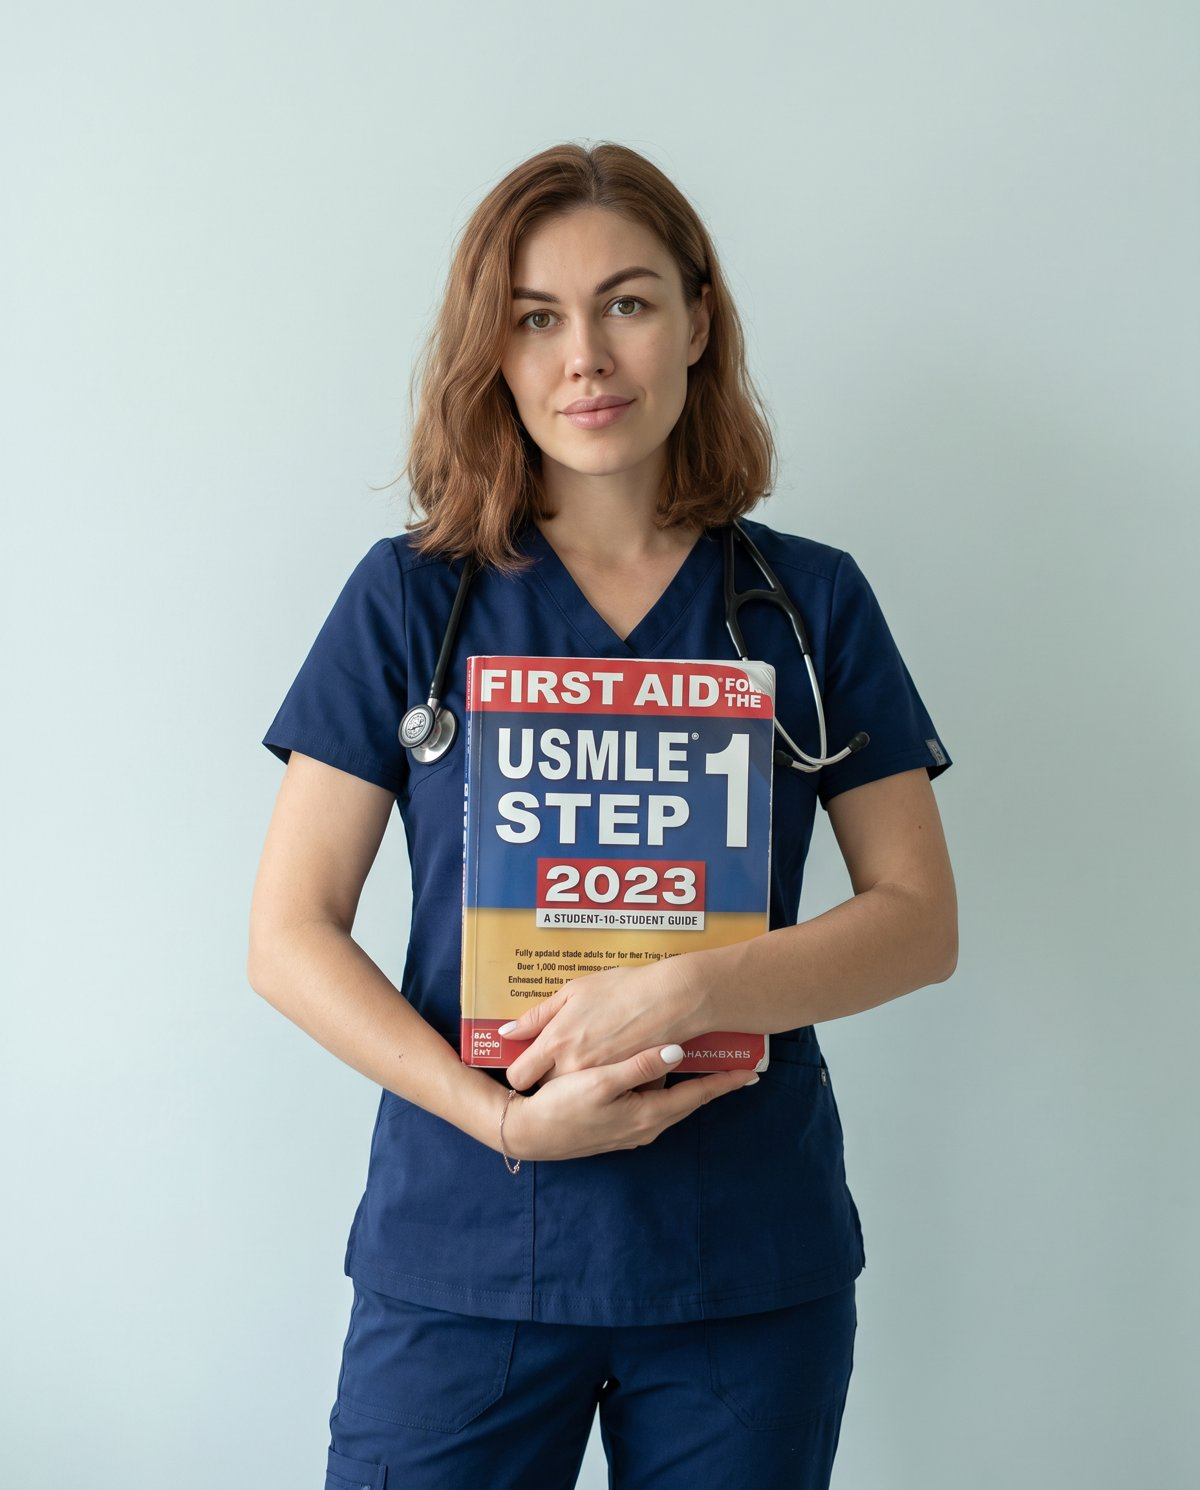
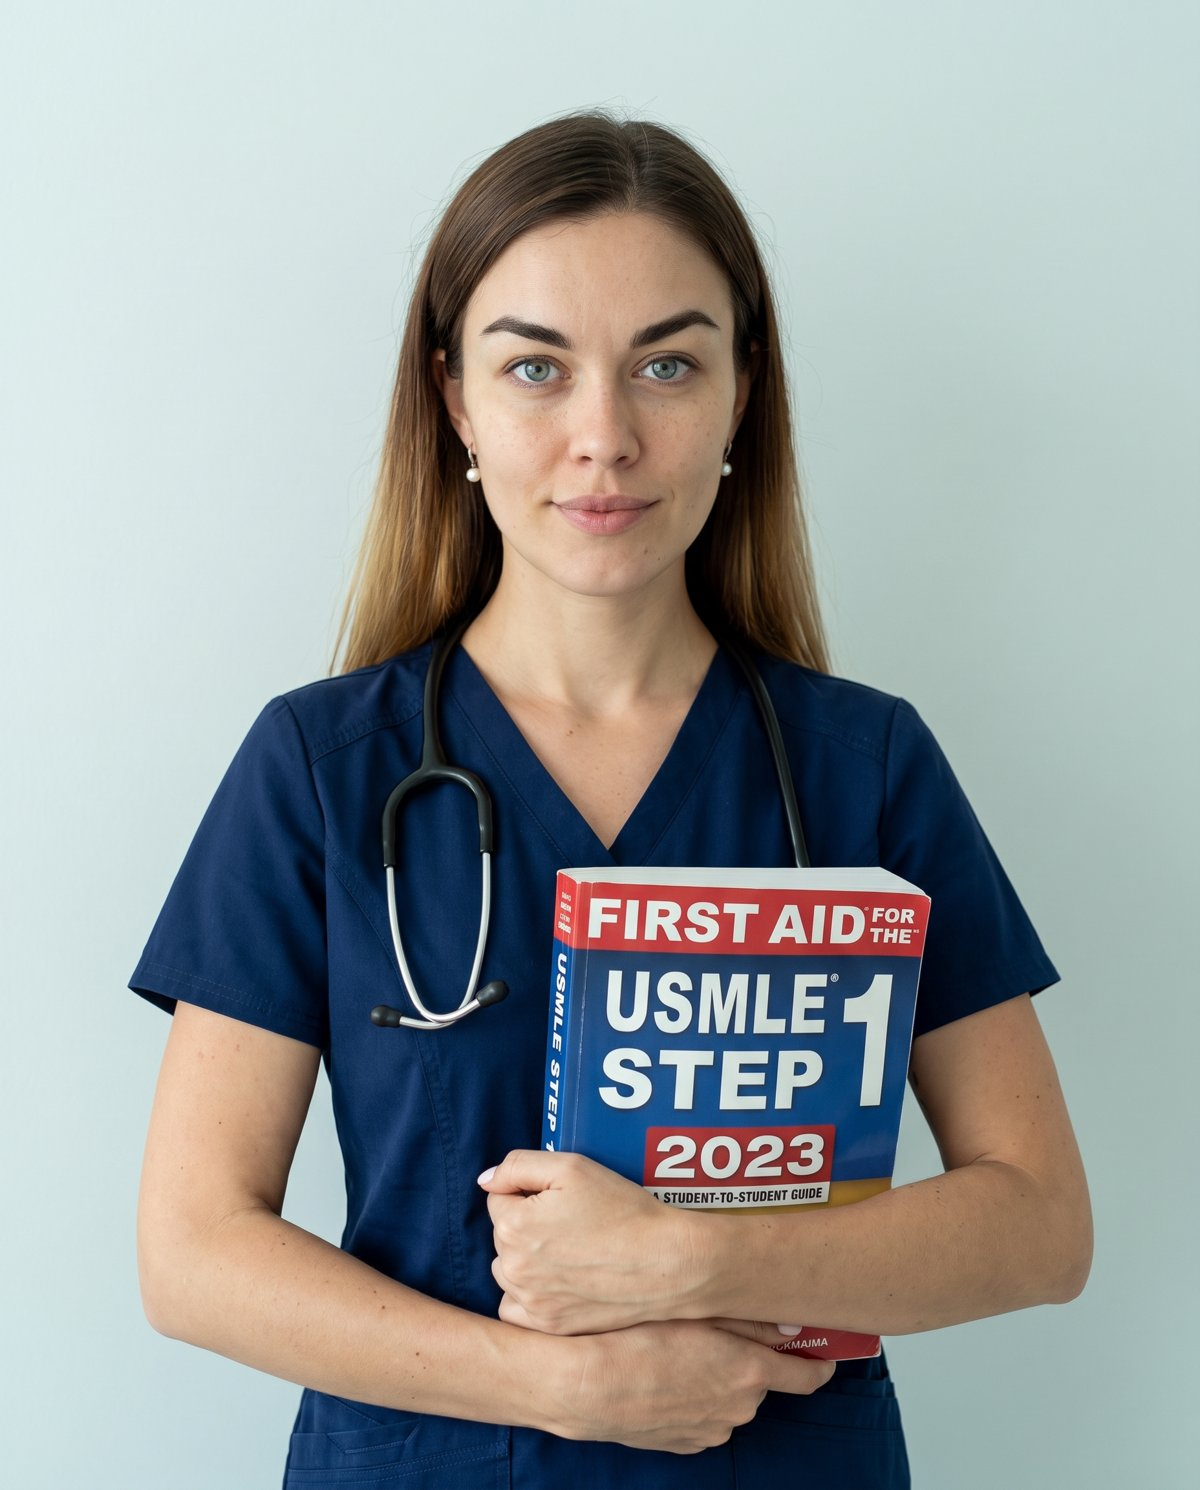
About photo: closer likeness (face from Asiia's selfie), First Aid 2023
Claude-Session: https://claude.ai/code/session_016RaYZYiEPZsG2KpibD82ni

diff --git a/app/[locale]/page.tsx b/app/[locale]/page.tsx
@@ -176,7 +176,7 @@ export default function Home() {
           <SectionHead eyebrow={t('about.tag')} title={t('about.title')} />
           <div className="grid gap-3 lg:grid-cols-[0.8fr_1.4fr]">
             <div className="relative min-h-[420px] overflow-hidden rounded-[28px] bg-steel">
-              <Image src="/asiia-book.jpg" alt="Dr. Asiia Vinograd" fill sizes="(min-width: 1024px) 460px, 100vw" className="object-cover object-[50%_25%]" />
+              <Image src="/asiia-book.jpg" alt="Dr. Asiia Vinograd" fill sizes="(min-width: 1024px) 460px, 100vw" className="object-cover object-[50%_20%]" />
               <div className="absolute left-3 top-3 rounded-full bg-white/85 px-4 py-2 text-[13px] font-medium text-slate backdrop-blur">
                 {ru ? 'Доктор Асия Виноград' : 'Dr. Asiia Vinograd'}
               </div>
